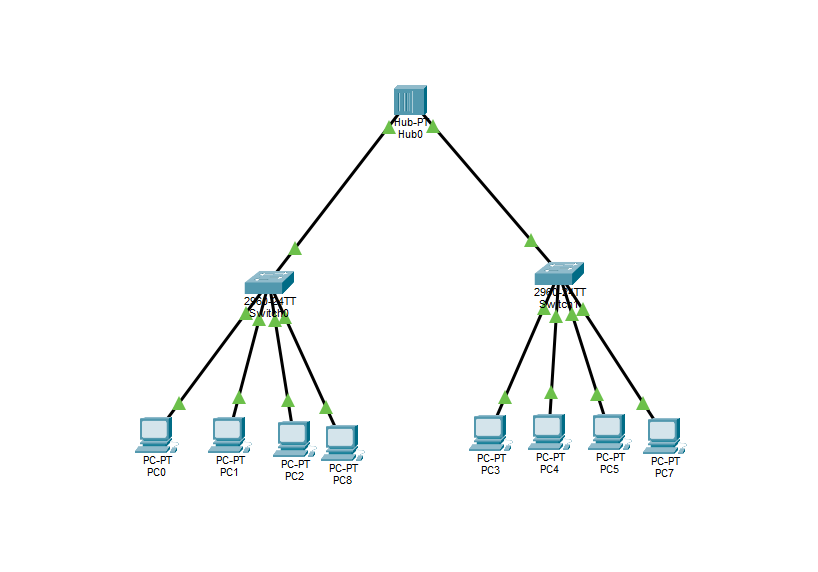
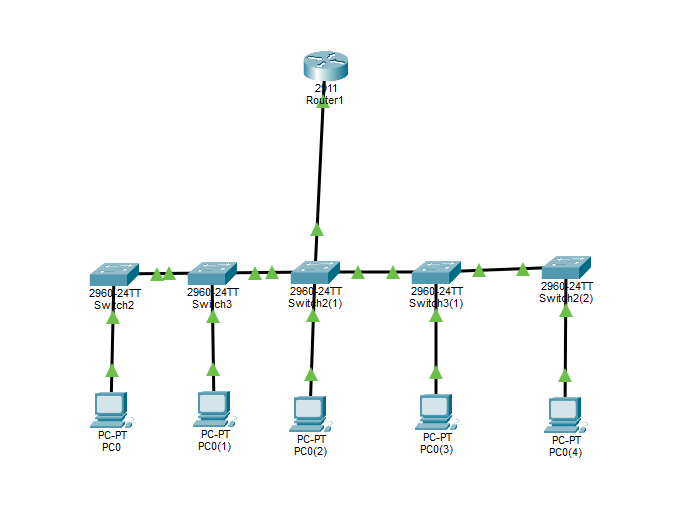
Заменена схема topology.png и заполнены README

diff --git a/lesson-08-subnets-vlsm/README.md b/lesson-08-subnets-vlsm/README.md
@@ -1,0 +1,100 @@
+\# Урок 8. Практика по подсетям: VLSM и проверка конфигурации
+
+
+
+\*\*Выполнил:\*\* Абдуллаев Билол, группа РПО 3
+
+\*\*Дата:\*\* 03.10.2026
+
+\*\*Преподаватель:\*\* Рычихин Ярослав Алексеевич
+
+
+
+\## Задача 1
+
+Нужно 5 подсетей, в каждой не менее 25 хостов. Сеть: 192.168.0.0/24.
+
+
+
+\- \*\*Маска:\*\* /27 (255.255.255.224)
+
+\- \*\*Всего подсетей:\*\* 8
+
+\- \*\*Хостов в каждой:\*\* 30
+
+\- \*\*Использовано:\*\* 5
+
+
+
+| № | VLAN | Сеть | Диапазон хостов | Broadcast | Шлюз |
+
+|---|------|------|-----------------|-----------|------|
+
+| 1 | 10 | 192.168.0.0/27 | .1 - .30 | .31 | 192.168.0.1 |
+
+| 2 | 20 | 192.168.0.32/27 | .33 - .62 | .63 | 192.168.0.33 |
+
+| 3 | 30 | 192.168.0.64/27 | .65 - .94 | .95 | 192.168.0.65 |
+
+| 4 | 40 | 192.168.0.96/27 | .97 - .126 | .127 | 192.168.0.97 |
+
+| 5 | 50 | 192.168.0.128/27 | .129 - .158 | .159 | 192.168.0.129 |
+
+
+
+\## Задача 2
+
+192.168.50.0/24 разделить на 6 подсетей.
+
+
+
+\- \*\*Маска:\*\* /27 (255.255.255.224)
+
+\- \*\*Всего подсетей:\*\* 8
+
+\- \*\*Хостов в каждой:\*\* 30
+
+\- \*\*Использовано:\*\* 6
+
+
+
+| № | Сеть | Диапазон хостов | Broadcast |
+
+|---|------|-----------------|-----------|
+
+| 1 | 192.168.50.0/27 | .1 - .30 | .31 |
+
+| 2 | 192.168.50.32/27 | .33 - .62 | .63 |
+
+| 3 | 192.168.50.64/27 | .65 - .94 | .95 |
+
+| 4 | 192.168.50.96/27 | .97 - .126 | .127 |
+
+| 5 | 192.168.50.128/27 | .129 - .158 | .159 |
+
+| 6 | 192.168.50.160/27 | .161 - .190 | .191 |
+
+
+
+\## Схема
+
+!\[Топология](screenshots/topology.png)
+
+
+
+\## Проверка конфигурации
+
+\- show ip interface brief — 5 subinterfaces up/up
+
+\- show ip route — 5 connected-сетей
+
+\- Пинг между ПК из разных подсетей — работает
+
+
+
+\## Файлы
+
+\- lab8.pkt — проект Packet Tracer
+
+\- configs/ — конфиги устройств
+
